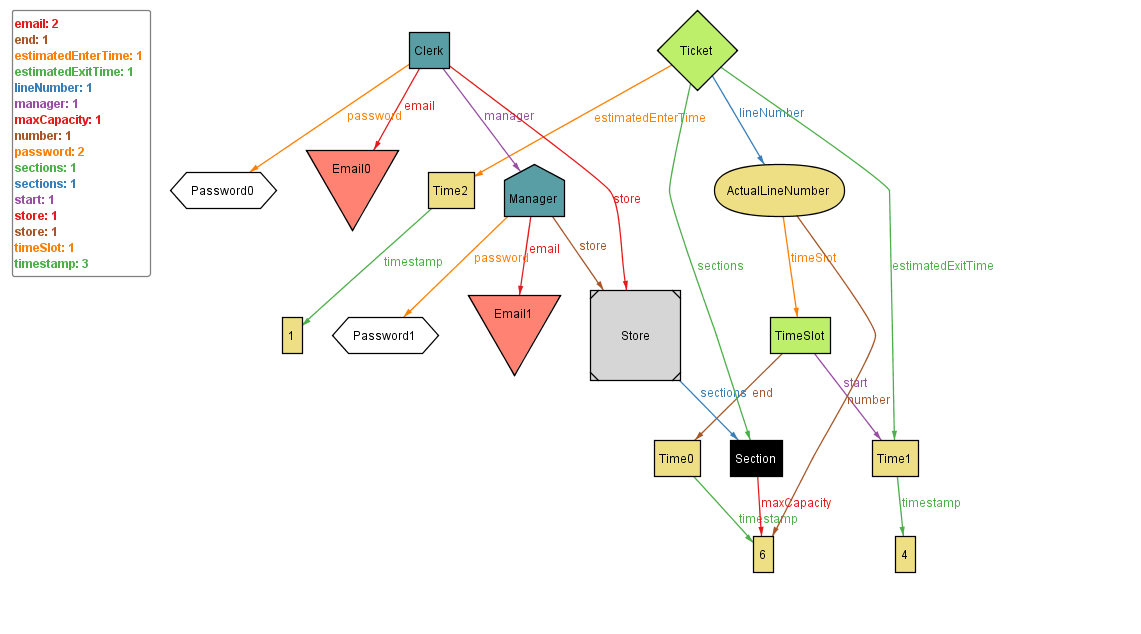
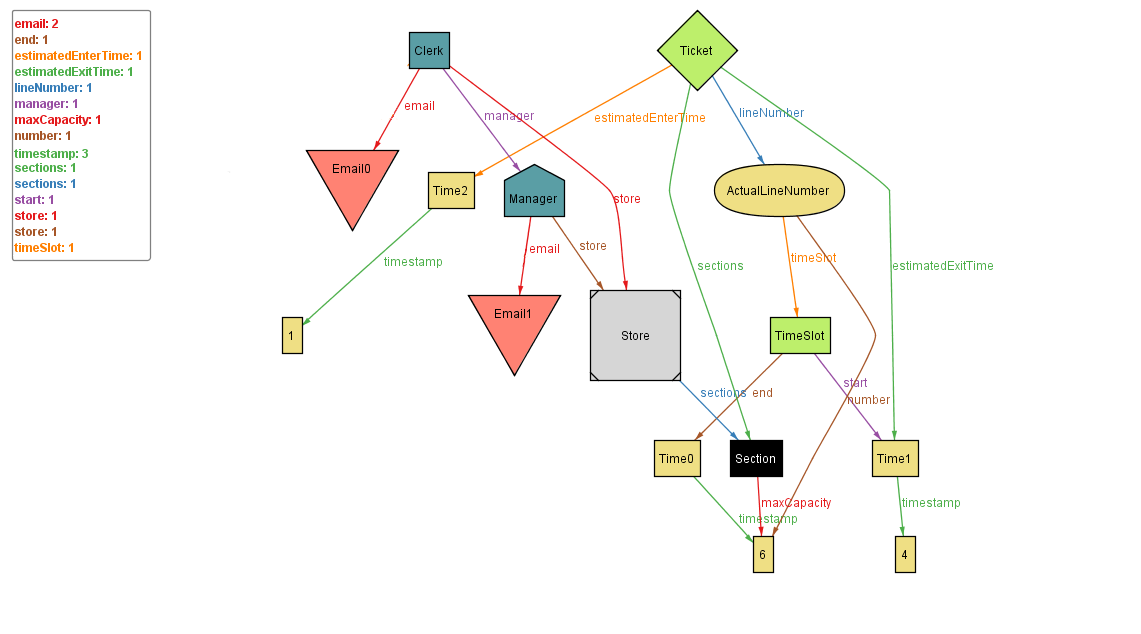
update alloy models to not have password fields

diff --git a/RASD/Files/alloy.tex b/RASD/Files/alloy.tex
@@ -33,11 +33,9 @@ The super user is ignored while creating Alloy models, since they are not an int
 
     sig Email {}
 
-    sig Password {}
 
     abstract sig User {
-        email : one Email,
-        password : one Password
+        email : one Email
     }
 
     sig Customer extends User {}
@@ -111,9 +109,7 @@ The super user is ignored while creating Alloy models, since they are not an int
 
     fact credentialInUsers {
         all mail : Email | mail in User.email
-        all pw : Password | pw in User.password
         no mail : Email, disj user1, user2 : User | mail in user1.email && mail in user2.email
-        no pw : Password, disj user1, user2 : User | pw in user1.password && pw in user2.password
     }
 
     fact everySectionInAStore {
